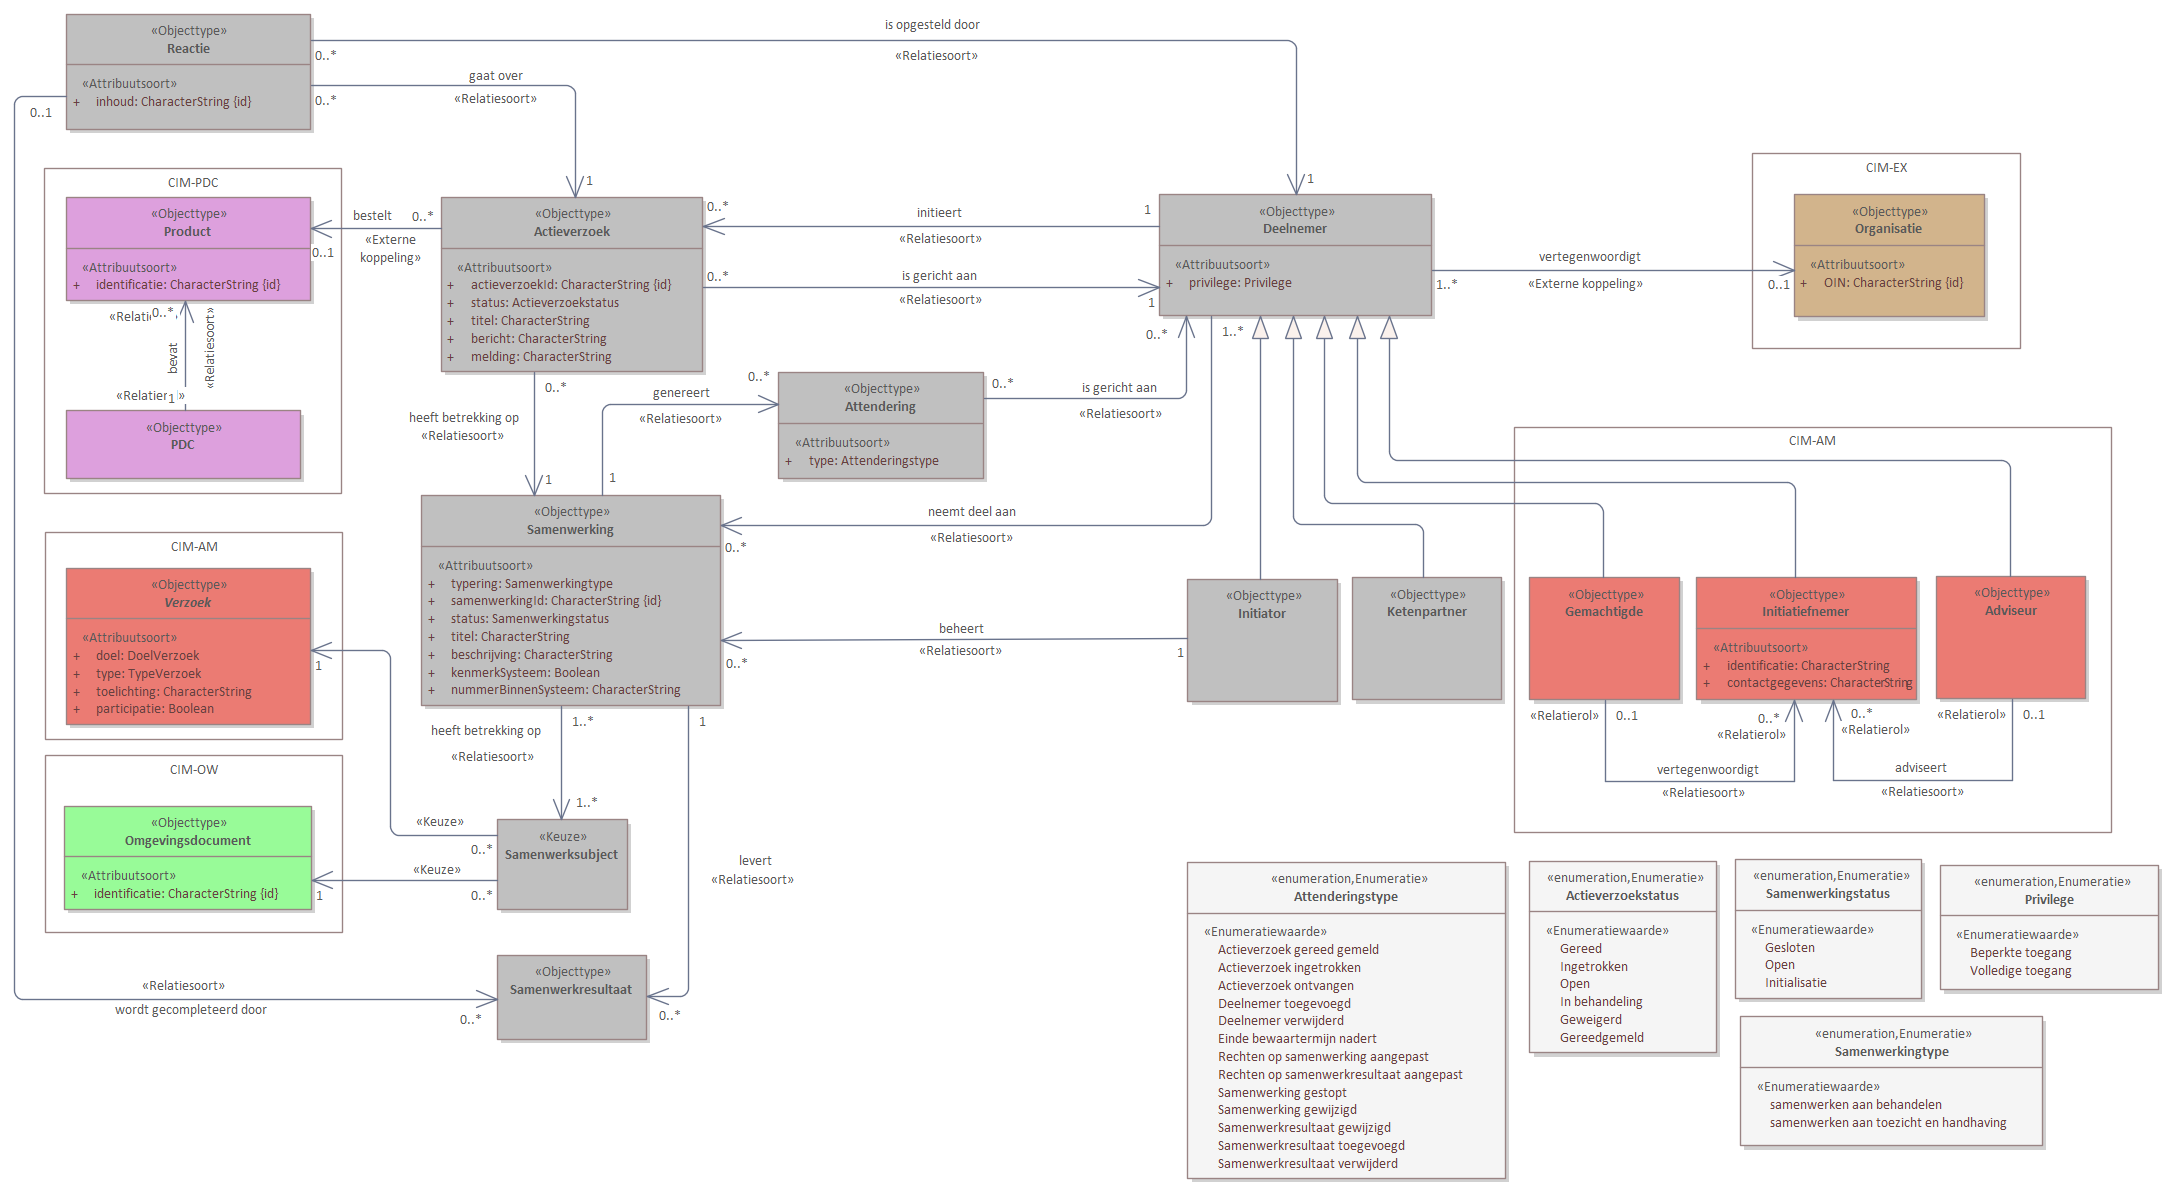
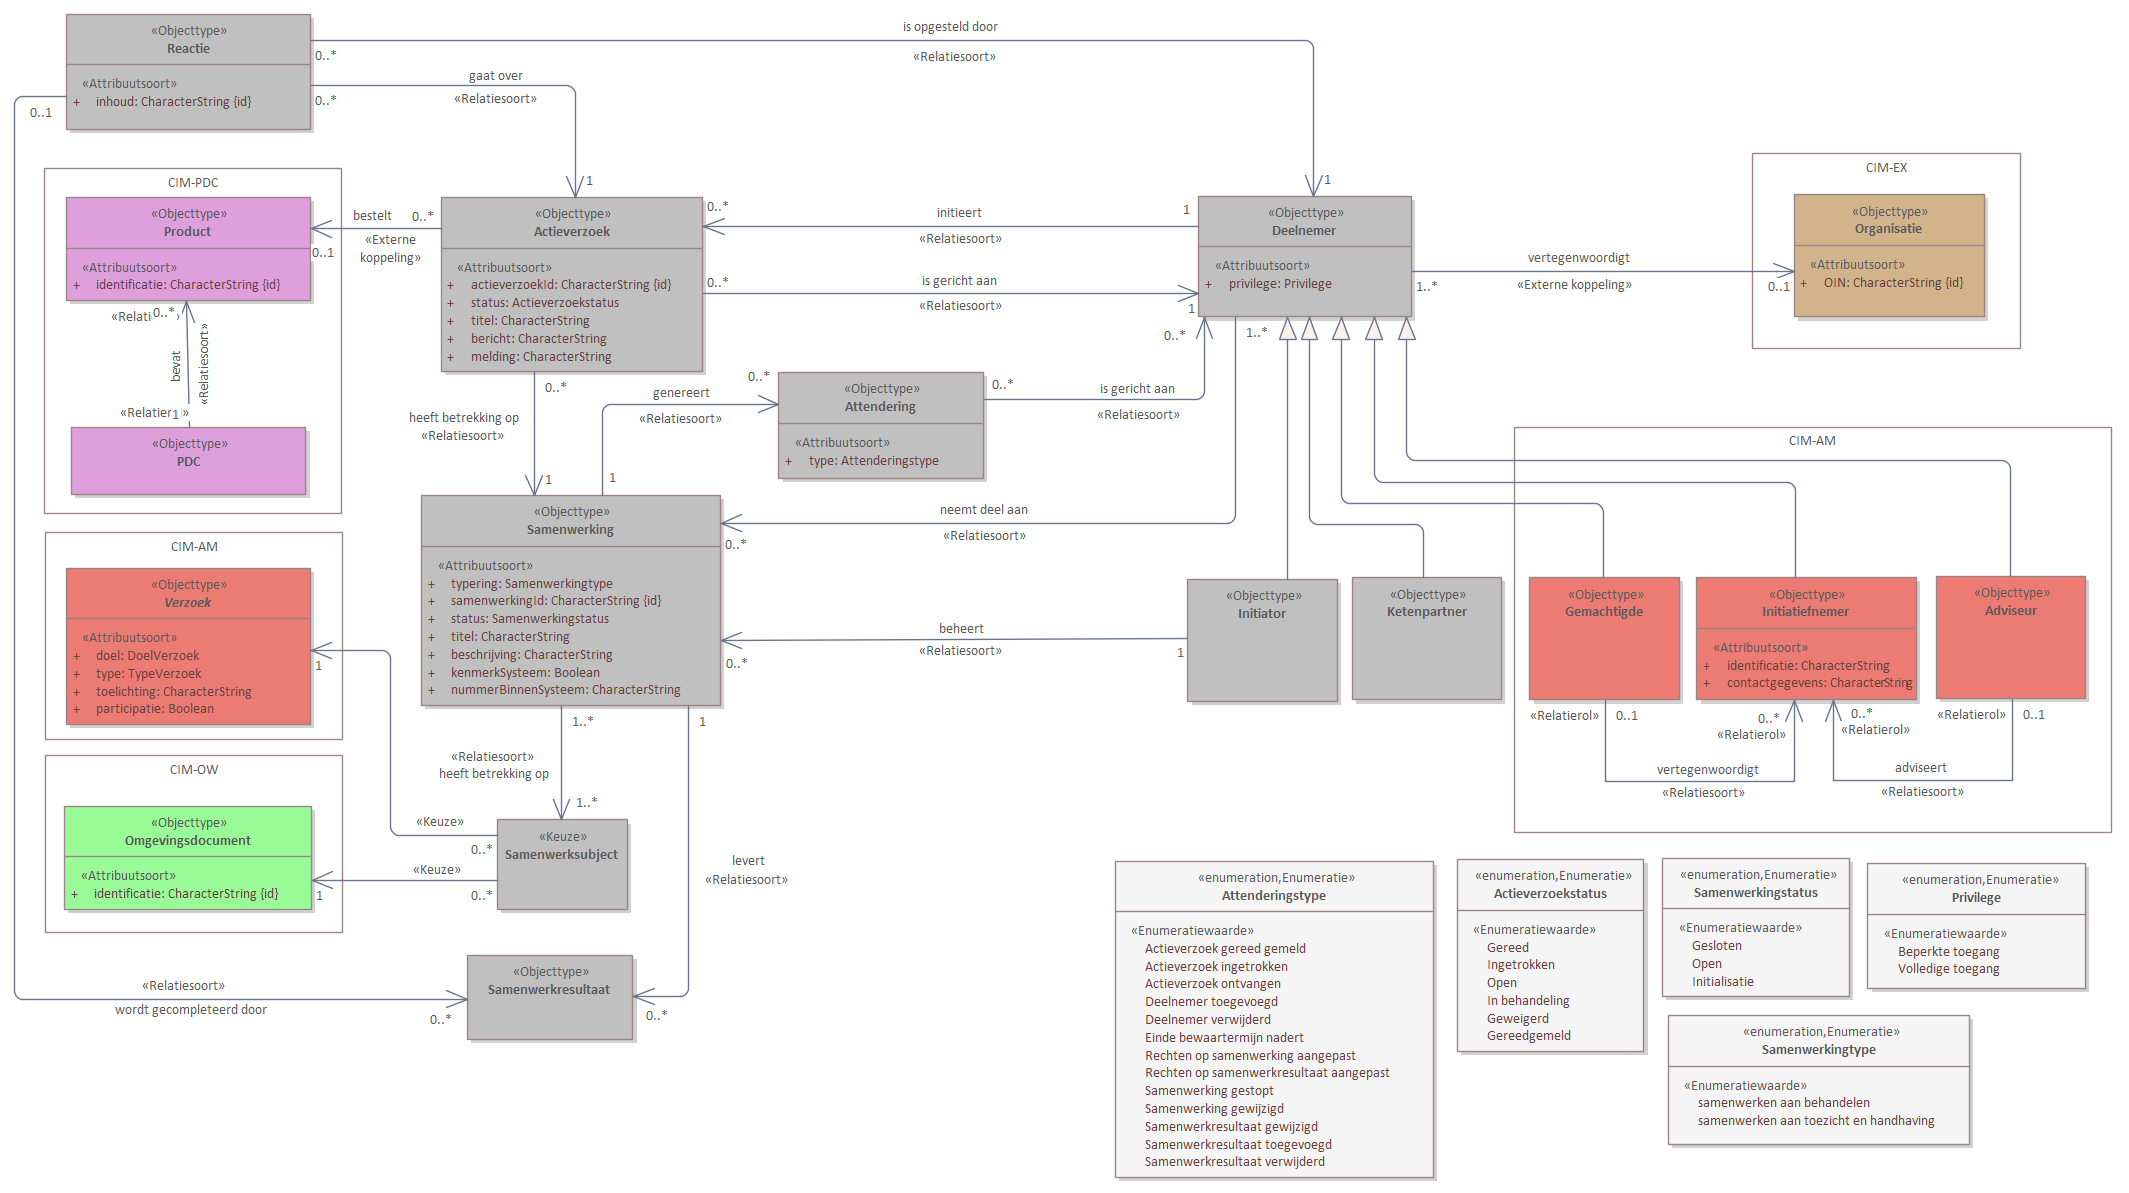
MIMCM-CIM-SWF-1.0-0-20230101-20240521-121716

diff --git a/data/CIM-SWF-cat.respec.html b/data/CIM-SWF-cat.respec.html
@@ -1,7 +1,7 @@
 
 <!DOCTYPE HTML><section id="cat" class="normative">
    <h2>Gegevensdefinitie</h2>
-   <!--MIMCM-CIM-SWF-1.0-0-20230101-20240521-120922 imvertor Nightly-build.14-->
+   <!--MIMCM-CIM-SWF-1.0-0-20230101-20240521-121716 imvertor Nightly-build.14-->
    <section id="EAID_148B391E_CCDB_471c_A289_54DA7F6CA2B1">
       <h3>   Context - overzicht</h3>
       <div class="imageinfo overview">
@@ -16,7 +16,7 @@
       <h3>   CIM-SWF - overzicht</h3>
       <div class="imageinfo overview">
          <figure><img src="data/Images/EAID_C94DE3A6_BF9B_4ca3_ADEC_2B78A1F24327.png" usemap="#imagemap-EAID_C94DE3A6_BF9B_4ca3_ADEC_2B78A1F24327" alt="Diagram: CIM-SWF - overzicht"><figcaption>CIM-SWF</figcaption>
-         </figure><map name="imagemap-EAID_C94DE3A6_BF9B_4ca3_ADEC_2B78A1F24327"><area shape="rect" alt="Samenwerksubject" coords="497,819,628,910" href="#global_class_CIMSWF_Samenwerksubject"><area shape="rect" alt="Reactie" coords="66,14,311,130" href="#global_class_CIMSWF_Reactie"><area shape="rect" alt="" coords="1187,862,1506,1179" href="#global_class_CIMSWF_Attenderingstype"><area shape="rect" alt="Samenwerkresultaat" coords="497,955,647,1040" href="#global_class_CIMSWF_Samenwerkresultaat"><area shape="rect" alt="" coords="1529,861,1717,1053" href="#global_class_CIMSWF_Actieverzoekstatus"><area shape="rect" alt="" coords="1735,859,1922,999" href="#global_class_CIMSWF_Samenwerkingstatus"><area shape="rect" alt="" coords="1940,865,2159,990" href="#global_class_CIMSWF_Privilege"><area shape="rect" alt="" coords="1740,1016,2043,1146" href="#global_class_CIMSWF_Samenwerkingtype"><area shape="rect" alt="Attendering" coords="778,372,984,479" href="#global_class_CIMSWF_Attendering"><area shape="rect" alt="Actieverzoek" coords="441,197,703,372" href="#global_class_CIMSWF_Actieverzoek"><area shape="rect" alt="Ketenpartner" coords="1352,577,1502,700" href="#global_class_CIMSWF_Ketenpartner"><area shape="rect" alt="Initiator" coords="1187,579,1338,702" href="#global_class_CIMSWF_Initiator"><area shape="rect" alt="Deelnemer" coords="1159,194,1432,316" href="#global_class_CIMSWF_Deelnemer"><area shape="rect" alt="Samenwerking" coords="421,495,721,706" href="#global_class_CIMSWF_Samenwerking"></map><p>
+         </figure><map name="imagemap-EAID_C94DE3A6_BF9B_4ca3_ADEC_2B78A1F24327"><area shape="rect" alt="Samenwerksubject" coords="497,819,628,910" href="#global_class_CIMSWF_Samenwerksubject"><area shape="rect" alt="Reactie" coords="66,14,311,130" href="#global_class_CIMSWF_Reactie"><area shape="rect" alt="" coords="1115,861,1434,1178" href="#global_class_CIMSWF_Attenderingstype"><area shape="rect" alt="Samenwerkresultaat" coords="467,955,633,1040" href="#global_class_CIMSWF_Samenwerkresultaat"><area shape="rect" alt="" coords="1457,859,1644,1052" href="#global_class_CIMSWF_Actieverzoekstatus"><area shape="rect" alt="" coords="1662,858,1850,997" href="#global_class_CIMSWF_Samenwerkingstatus"><area shape="rect" alt="" coords="1867,863,2086,989" href="#global_class_CIMSWF_Privilege"><area shape="rect" alt="" coords="1668,1015,1970,1145" href="#global_class_CIMSWF_Samenwerkingtype"><area shape="rect" alt="Attendering" coords="778,372,984,479" href="#global_class_CIMSWF_Attendering"><area shape="rect" alt="Actieverzoek" coords="441,197,703,372" href="#global_class_CIMSWF_Actieverzoek"><area shape="rect" alt="Ketenpartner" coords="1352,577,1502,700" href="#global_class_CIMSWF_Ketenpartner"><area shape="rect" alt="Initiator" coords="1187,579,1338,702" href="#global_class_CIMSWF_Initiator"><area shape="rect" alt="Deelnemer" coords="1198,196,1412,317" href="#global_class_CIMSWF_Deelnemer"><area shape="rect" alt="Samenwerking" coords="421,495,721,706" href="#global_class_CIMSWF_Samenwerking"></map><p>
             
             <p></p>
             </p>
@@ -345,8 +345,7 @@
                      </td>
                   <td>
                      
-                     <p>geeft het soort samenwerking aan. Op dit moment worden "samenwerken aan behandelen"
-                        en "samenwerken aan toezicht en handhaving" ondersteund.</p>
+                     <p>geeft het soort samenwerking aan.</p>
                      </td>
                   <td>
                      <a class="link" href="#detail_class_CIMSWF_Samenwerkingtype">Samenwerkingtype</a>
@@ -1319,8 +1318,7 @@
                         <td>
                            
                            
-                           <p>geeft het soort samenwerking aan. Op dit moment worden "samenwerken aan behandelen"
-                              en "samenwerken aan toezicht en handhaving" ondersteund.</p>
+                           <p>geeft het soort samenwerking aan.</p>
                            
                            </td>
                      </tr>
@@ -2459,7 +2457,7 @@
 </section>
 <section id="lis" class="normative">
    <h2>Inhoud van waardenlijsten</h2>
-   <!--MIMCM-CIM-SWF-1.0-0-20230101-20240521-120922 imvertor Nightly-build.14-->
+   <!--MIMCM-CIM-SWF-1.0-0-20230101-20240521-121716 imvertor Nightly-build.14-->
    <section id="detail_class_CIMSWF_Actieverzoekstatus">
       <h3>Enumeratie details  Actieverzoekstatus</h3>
       
